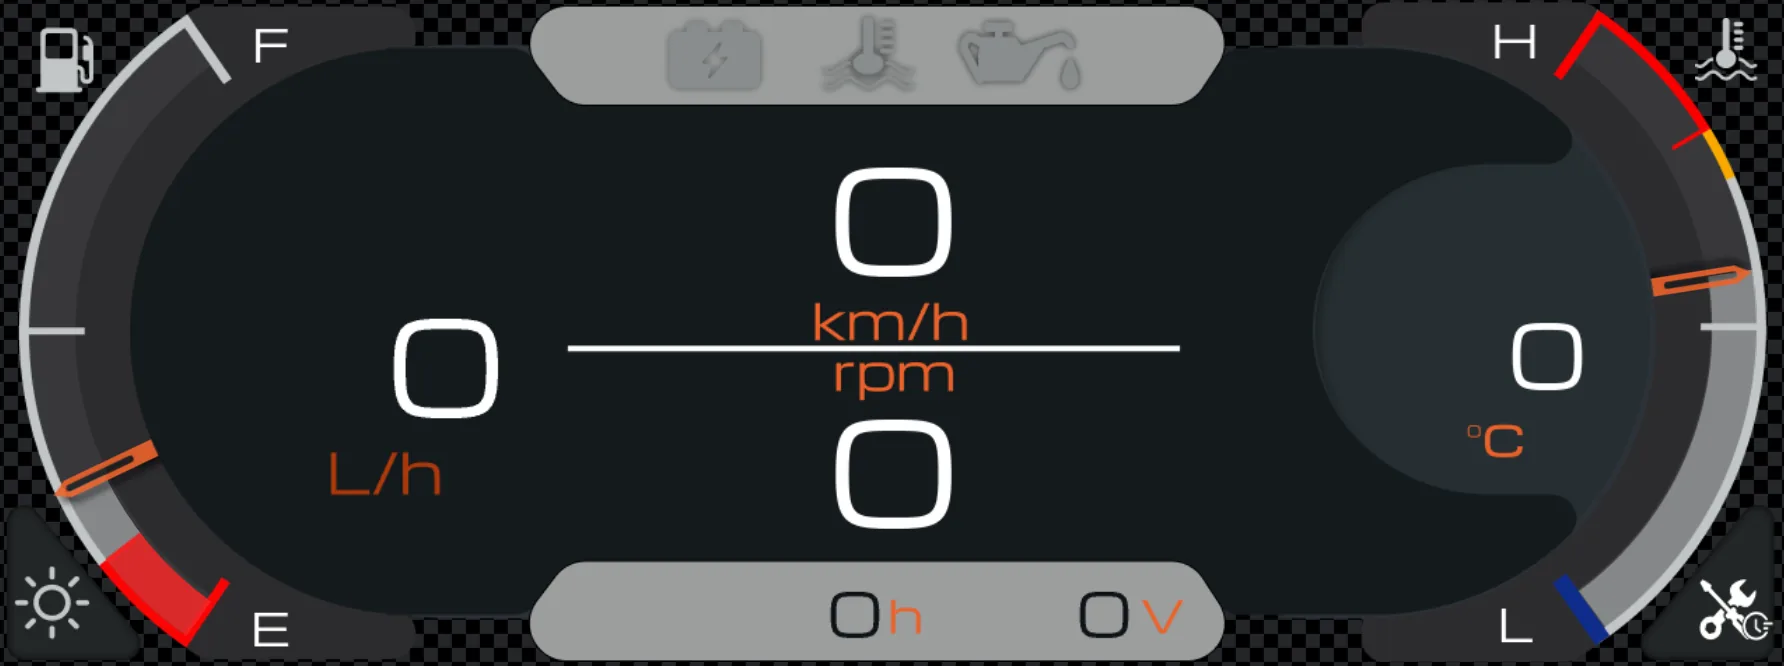
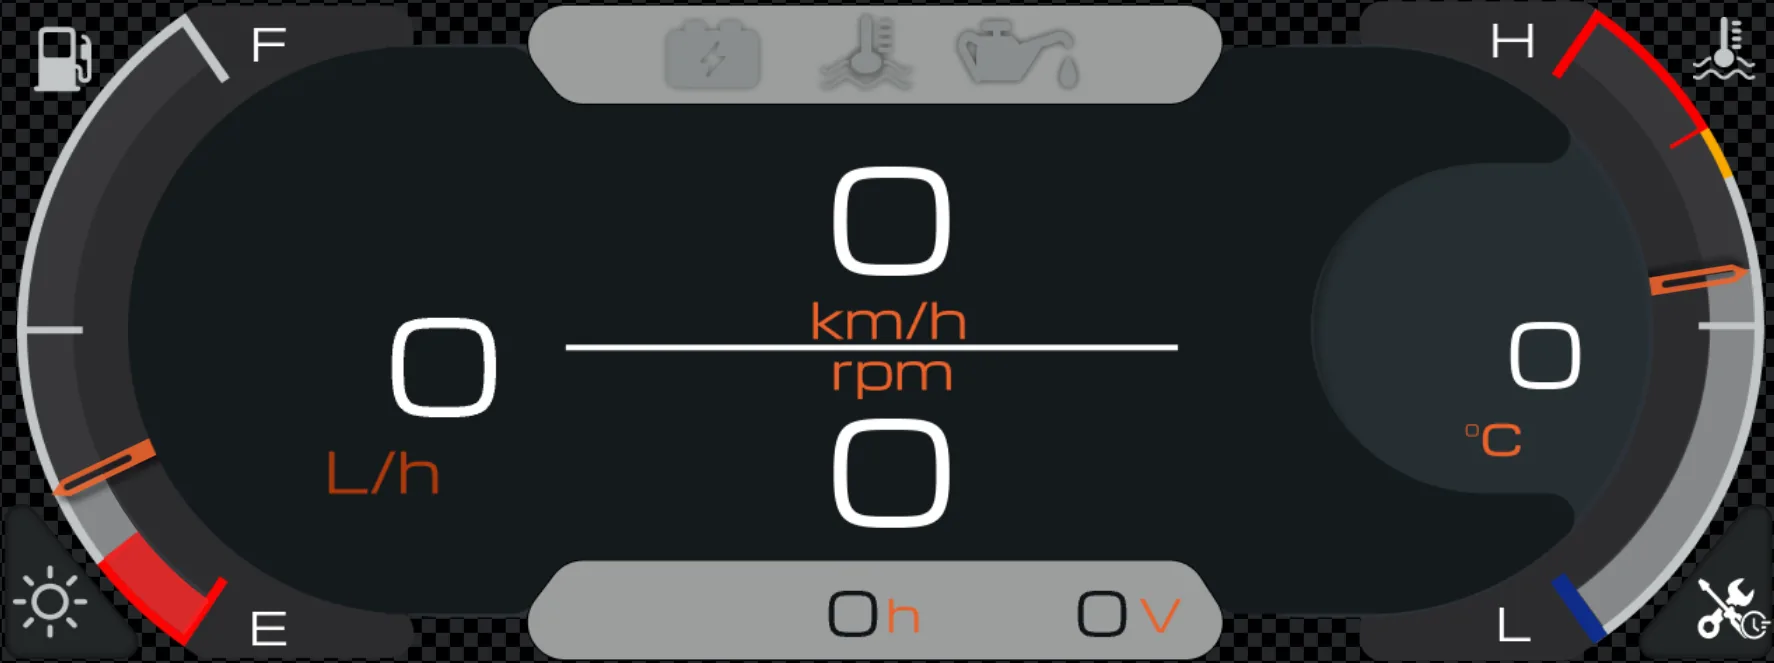
Dash-6.8: align interface screens to the base screen so the speedometer stays in place

diff --git a/docs/ru/dash-6-8.html b/docs/ru/dash-6-8.html
@@ -245,7 +245,7 @@
     <p class="section-lead">Прокрутите экраны Dash-6.8 — от основного вида до предупреждений и живых данных.</p>
     <div class="story-grid">
       <div class="story-visual" aria-hidden="true">
-        <div class="frame" style="aspect-ratio: 1784 / 666">
+        <div class="frame" style="aspect-ratio: 1774 / 663">
           <img src="../img/dash-screen-base.webp" alt="" class="on" data-img="img/dash-screen-base.webp">
           <img src="../img/dash-screen-fault.webp" alt="" loading="lazy" data-img="img/dash-screen-fault.webp">
           <img src="../img/dash-screen-oil.webp" alt="" loading="lazy" data-img="img/dash-screen-oil.webp">

diff --git a/docs/dash-6-8.html b/docs/dash-6-8.html
@@ -245,7 +245,7 @@
     <p class="section-lead">Scroll through the screens of Dash-6.8 — from the main view to warnings and live data.</p>
     <div class="story-grid">
       <div class="story-visual" aria-hidden="true">
-        <div class="frame" style="aspect-ratio: 1784 / 666">
+        <div class="frame" style="aspect-ratio: 1774 / 663">
           <img src="img/dash-screen-base.webp" alt="" class="on" data-img="img/dash-screen-base.webp">
           <img src="img/dash-screen-fault.webp" alt="" loading="lazy" data-img="img/dash-screen-fault.webp">
           <img src="img/dash-screen-oil.webp" alt="" loading="lazy" data-img="img/dash-screen-oil.webp">
